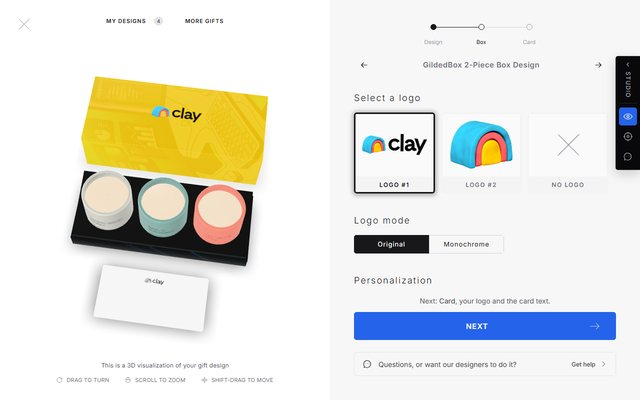
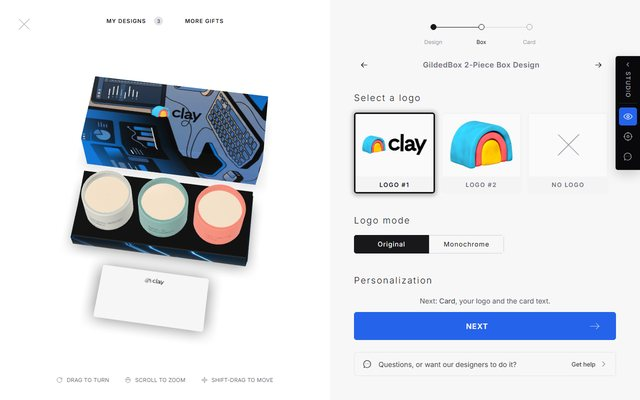
feat(lp227): iteration 8, a clean preview and a swap that asks first
Ton, 30.09 evening, both sandboxes (V1.8, V2.8):
- the line "This is a 3D visualization of your gift design" is gone everywhere; the preview foot keeps only the Share gesture row, in a plate that really floats (16 from the bottom, all four corners rounded) and does not show on touch;
- during the brand reading the preview is the bare base model, no plate and no doors;
- the colour swap no longer regenerates at once: a contextual line opens under the row of colour tiles, "Swapping the colors creates a new design. Your current design stays in My Designs.", with Continue and Cancel; Continue runs the short generation and adds exactly one design, Cancel changes nothing.
Also on the wireframe shelf: five mockups of the help under NEXT for the brainstorm (sandbox/wire/customizer-help-variants.html). Live is untouched.

Built with Elian (session 43).

diff --git a/sandbox/wire/customizer-help-variants.html b/sandbox/wire/customizer-help-variants.html
@@ -1,0 +1,250 @@
+<!DOCTYPE html>
+<html lang="en">
+<head>
+<meta charset="UTF-8">
+<meta name="viewport" content="width=device-width, initial-scale=1.0">
+<link rel="icon" href="data:,">
+<title>Mockup · Customizer help, five variants · GildedBox Design Studio</title>
+<!-- ============================================================
+     gbppl-customizer-help-variants-1 (30.09.2026). MOCKUP for a
+     brainstorm with Ton, not a page. The question is the help element
+     under NEXT on Your Design (Ton 30.09 20:21: «Get help looks
+     deliberately the smallest text on the page»).
+     Five variants, each at REAL size in two frames. Each frame is an
+     iframe of THIS file (?f=desk|phone&v=A..E) so its own viewport
+     drives the button ladder: the desktop frame is a 1280 viewport
+     clipped to the 620 panel (large = 56, medium = 42, small = 36),
+     the phone frame is a 390 viewport (large = 48, medium = 36,
+     small = 32), whatever screen the page is opened on.
+     Buttons and glyphs are the system's (button.css, icon.js). The
+     panel furniture (stepper, tiles, colour tiles) is a page-only copy
+     of the sandbox customizer (start-227-assets sb.css / cz.css).
+     ============================================================ -->
+<script>
+  var GBQ = new URLSearchParams(location.search);
+  var GBF = GBQ.get('f'), GBV = GBQ.get('v') || 'A';
+  if (GBF) document.documentElement.classList.add('is-frame', 'is-' + GBF);
+  else {
+    var s = document.createElement('script');
+    s.src = '../../system/components/studio.js';
+    s.setAttribute('data-home', '../../index.html');
+    document.head.appendChild(s);
+  }
+</script>
+<link rel="preconnect" href="https://fonts.googleapis.com">
+<link rel="preconnect" href="https://fonts.gstatic.com" crossorigin>
+<link href="https://fonts.googleapis.com/css2?family=Inter:wght@300;400;500;600&display=swap" rel="stylesheet">
+<link rel="stylesheet" href="../../system/assets/tokens.css">
+<link rel="stylesheet" href="../../system/components/icon.css">
+<link rel="stylesheet" href="../../system/components/button.css">
+<style>
+  *, *::before, *::after { box-sizing: border-box; }
+  html, body { margin: 0; }
+  body { font-family: var(--font-sans); color: var(--zinc-900); background: var(--white); -webkit-font-smoothing: antialiased; }
+  p, h1, h2, h3 { margin: 0; }
+
+  /* ---------- THE BOARD (top level) ---------- */
+  .hv { max-width: 1216px; margin: 0 auto; padding: var(--space-48) var(--space-32) var(--space-64); }
+  .hv-head h1 { font-size: 24px; line-height: 32px; font-weight: 500; }
+  .hv-rec { margin-top: var(--space-16); padding: var(--space-16); background: var(--blue-50); border-radius: var(--radius); font-size: 16px; line-height: 24px; color: var(--zinc-900); }
+  .hv-rec b { font-weight: 600; }
+  .hv-var { margin-top: var(--space-64); }
+  .hv-var h2 { font-size: 20px; line-height: 28px; font-weight: 500; }
+  .hv-frames { display: flex; flex-wrap: wrap; gap: var(--space-48); margin-top: var(--space-16); align-items: flex-start; }
+  .hv-frame { flex: 0 0 auto; max-width: 100%; }
+  .hv-cap { font-size: 14px; line-height: 20px; color: var(--zinc-600); margin-bottom: var(--space-8); }
+  .hv-clip { overflow: hidden; border: 1px solid var(--zinc-200); border-radius: var(--radius); background: #F7F7F7; }
+  .hv-clip--desk { width: 622px; max-width: 100%; overflow-x: auto; }
+  .hv-clip--desk .hv-win { width: 620px; height: 820px; overflow: hidden; position: relative; }
+  .hv-clip--desk iframe { position: absolute; left: -660px; top: 0; width: 1280px; height: 820px; border: 0; display: block; }
+  .hv-clip--phone { width: 392px; max-width: 100%; }
+  .hv-clip--phone iframe { width: 390px; height: 844px; border: 0; display: block; }
+  .hv-notes { margin-top: var(--space-16); display: grid; gap: var(--space-8); max-width: 1058px; font-size: 16px; line-height: 24px; color: var(--zinc-700); }
+  .hv-notes b { color: var(--zinc-900); font-weight: 600; }
+  @media (max-width: 767px) { .hv { padding: var(--space-32) var(--space-16) var(--space-48); } }
+
+  /* ---------- THE FRAME (inside the iframes) ---------- */
+  .is-frame body { background: #141414; overflow: hidden; }
+  .pn { background: #F7F7F7; display: flex; flex-direction: column; }         /* NO TOKEN: live panel ground, harvest 28.09 */
+  .is-desk .pn { position: absolute; top: 0; right: 0; width: 620px; height: 100vh; }
+  .is-desk .pn-scroll { padding: var(--space-48) var(--space-48) 0; }
+  .is-desk .pn-foot { padding: var(--space-16) var(--space-48) var(--space-48); margin-top: auto; }
+  .is-phone .pn { position: absolute; left: 0; right: 0; bottom: 0; height: 50vh; background: var(--zinc-50); border-radius: 30px 30px 0 0; box-shadow: 0 -3px 8px rgba(0,0,0,.07); }
+  .is-phone .pn-grab { height: 44px; display: grid; place-items: center; flex: 0 0 auto; }
+  .is-phone .pn-grab span { width: 36px; height: 4px; border-radius: 2px; background: var(--zinc-300); }
+  .is-phone .pn-scroll { padding: 0 var(--space-16); flex: 1 1 auto; min-height: 0; overflow: hidden; }
+  .is-phone .pn-foot { flex: 0 0 auto; padding: 12px var(--space-16) var(--space-8); border-top: 1px solid var(--zinc-200); background: var(--zinc-50); }
+  .is-phone .pn-scene-note { position: absolute; top: 25vh; left: 0; right: 0; transform: translateY(-50%); text-align: center; color: var(--zinc-500); font-size: 14px; }
+  .is-desk .pn-scene-note { position: absolute; top: 50%; left: 330px; transform: translate(-50%, -50%); color: var(--zinc-500); font-size: 14px; }
+
+  .pn-head { display: flex; flex-direction: column; align-items: center; gap: var(--space-16); position: relative; }
+  .is-phone .pn-head { gap: var(--space-8); }
+  .pn-stepper { display: flex; align-items: center; }
+  .pn-dot { width: 12px; height: 12px; border-radius: 50%; border: 1px solid var(--zinc-400); }
+  .pn-dot.is-on { border-color: var(--zinc-900); }
+  .pn-line { width: 84px; height: 1px; background: var(--zinc-300); }
+  .is-phone .pn-dot { width: 8px; height: 8px; }
+  .is-phone .pn-line { width: 84px; }
+  .pn-steps { position: relative; width: 192px; height: 18px; font-size: 11px; color: var(--zinc-400); margin-top: -4px; }
+  .is-desk .pn-steps { width: 204px; margin-top: -2px; }
+  .pn-steps span { position: absolute; left: 4px; transform: translateX(-50%); }
+  .pn-steps span:nth-child(2) { left: 50%; }
+  .pn-steps span:nth-child(3) { left: calc(100% - 4px); }
+  .pn-steps .is-on { color: var(--zinc-900); }
+  .pn-title { width: 100%; height: 40px; display: flex; align-items: center; justify-content: space-between; }
+  .pn-title > b { font-size: 16px; font-weight: 600; letter-spacing: .5px; color: var(--zinc-500); }
+  .is-phone .pn-title > b { font-size: 12px; }
+  .pn-arrow { width: 40px; height: 40px; display: grid; place-items: center; color: var(--zinc-900); }
+  .pn-arrow.is-off { opacity: .3; }
+  .pn-arrow.is-back .gb-icon { transform: rotate(180deg); }
+  .pn-headhelp { position: absolute; right: 0; top: -12px; }                 /* D: the ghost lands on the step line */
+  .is-phone .pn-headhelp { top: -16px; right: -4px; }
+
+  .pn-choose { margin-top: var(--space-32); font-size: 20px; line-height: 28px; font-weight: 300; letter-spacing: 2px; color: var(--zinc-900); }
+  .is-phone .pn-choose { margin-top: var(--space-24); font-size: 14px; line-height: 21px; }
+  .pn-grid { margin-top: var(--space-16); display: grid; grid-template-columns: repeat(3, 1fr); gap: var(--space-16); }
+  .is-phone .pn-grid { gap: 12px; }
+  .pn-tile { aspect-ratio: 1; border-radius: var(--radius); overflow: hidden; box-shadow: inset 0 0 0 3px var(--zinc-100); position: relative; }
+  .pn-tile img { width: 100%; height: 100%; object-fit: cover; display: block; }
+  .pn-tile.is-on { box-shadow: 0 1px 8px 3px rgba(0,0,0,.3); }
+  .pn-tile.is-on::after { content: ""; position: absolute; inset: 0; border-radius: var(--radius); box-shadow: inset 0 0 0 3px var(--zinc-900); }
+
+  .pn-colors { margin-top: var(--space-32); display: flex; flex-direction: column; gap: var(--space-16); }
+  .pn-colors h3 { font-size: 18px; line-height: 27px; font-weight: 300; letter-spacing: 2px; }
+  .is-phone .pn-colors h3 { font-size: 14px; line-height: 21px; }
+  .pn-crow { display: flex; align-items: center; gap: 12px; flex-wrap: wrap; }
+  .is-phone .pn-crow { gap: var(--space-8); }
+  .pn-sw { width: 24px; height: 24px; border-radius: 3px; border: 1px solid rgba(0,0,0,.1); display: block; }
+  .pn-ctile.gb-btn { padding-left: var(--space-8); padding-right: 12px; }
+  .pn-dna { margin-left: auto; }
+  .is-phone .pn-dna { margin-left: 0; }
+
+  .pn-next-copy { font-size: 14px; line-height: 21px; color: var(--zinc-600); text-align: center; margin-bottom: 12px; }
+  .pn-next-copy strong { font-weight: 500; color: var(--zinc-900); }
+  .is-phone .pn-next-copy { display: none; }                                 /* as live: the phone foot drops the line */
+
+  /* A. secondary under NEXT */
+  .pn--a .pn-help { margin-top: 12px; }
+  /* B. one row */
+  .v-b-row { display: flex; gap: 12px; }
+  .v-b-row .v-b-help { flex: 0 0 calc(40% - 6px); min-width: 0; }
+  .v-b-row .v-b-next { flex: 1 1 0; width: auto; }
+  /* C. the advisor */
+  .v-c { margin-top: var(--space-24); padding-top: var(--space-24); border-top: 1px solid var(--zinc-200); display: flex; align-items: center; gap: 12px; }
+  .is-phone .v-c { margin-top: 12px; padding-top: 12px; }
+  .v-c-face { flex: 0 0 40px; width: 40px; height: 40px; border-radius: var(--radius-circle); background: var(--zinc-100); border: 1px solid var(--zinc-200); display: grid; place-items: center; font-size: 14px; font-weight: 600; color: var(--zinc-900); }
+  .v-c-text { flex: 1 1 auto; min-width: 0; }
+  .v-c-who { font-size: 14px; line-height: 20px; color: var(--zinc-600); }
+  .v-c-ask { font-size: 16px; line-height: 24px; color: var(--zinc-900); }
+  /* E. the card, honest */
+  .v-e { margin-top: var(--space-16); display: flex; align-items: center; gap: 12px; padding: 12px 12px 12px var(--space-16); border: 1px solid var(--zinc-200); border-radius: var(--radius); }
+  .is-phone .v-e { margin-top: 12px; }
+  .v-e > .gb-icon { color: var(--zinc-700); flex: 0 0 auto; }
+  .v-e-text { flex: 1 1 auto; min-width: 0; font-size: 16px; line-height: 24px; color: var(--zinc-700); }
+</style>
+</head>
+<body>
+<div id="root"></div>
+<script>
+(function () {
+  'use strict';
+  var PHONE = GBF === 'phone';
+  var root = document.getElementById('root');
+
+  var VARIANTS = [
+    { k: 'A', name: 'Secondary button under NEXT',
+      for: 'One primary, one clear secondary. The live label, the live place. Reads as a button at a glance.',
+      against: 'One more full-width row on the phone (36 + 12). The medium label is small caps: if it reads small, take the large rung, as live does.',
+      russell: '"Good, that is our HELP WITH MY DESIGN. Keep it."' },
+    { k: 'B', name: 'One row, two roles',
+      for: 'The standard wizard footer. The phone saves a whole row.',
+      against: 'Help stands as tall as NEXT, so the two compete. The live label fills its half with no air on desktop and does not fit the phone: there it becomes GET HELP.',
+      russell: '"Why is help the same size as next?"' },
+    { k: 'C', name: 'The advisor',
+      for: 'The human face of the expert service. The strongest sell of "we design it for you".',
+      against: 'The heaviest foot on the phone. Brad exists only in the portal: a guest in the customizer has no advisor, and there is no photo yet.',
+      russell: '"I like a person there. Whose face, for a guest?"' },
+    { k: 'D', name: 'Help in the panel head',
+      for: 'Always there, far from NEXT. The foot stays clean. The phone foot is the smallest.',
+      against: 'Out of sight at the moment of doubt. On the phone it shrinks to a glyph with no word.',
+      russell: '"Nobody will find it up there."' },
+    { k: 'E', name: 'The current card, made honest',
+      for: 'Keeps the pitch sentence ("want our designers to do it?") and gains a real button.',
+      against: 'Still a box of text beside a button: two things to read, and the card competes with NEXT for the eye.',
+      russell: '"Still a box. Just make it a button."' }
+  ];
+
+  var ic = function (name, size, cls) { return '<span class="' + (cls || '') + '" data-gb-icon="' + name + '" data-gb-icon-size="' + size + '"></span>'; };
+  var btnIcon = function (name, size) { return '<span class="gb-btn__icon" aria-hidden="true"><span data-gb-icon="' + name + '" data-gb-icon-size="' + size + '"></span></span>'; };
+  var label = function (t) { return '<span class="gb-btn__label">' + t + '</span>'; };
+  var NEXT = '<button type="button" class="gb-btn gb-btn--large gb-btn--filled gb-btn--primary gb-btn--block">' + label('Next') + btnIcon('arrow-right', PHONE ? 16 : 20) + '</button>';
+
+  /* ---------- THE BOARD ---------- */
+  if (!GBF) {
+    var here = location.pathname.split('/').pop() || 'customizer-help-variants.html';
+    var html = '<main class="hv"><header class="hv-head"><h1>Customizer, Your Design: the help under NEXT</h1>' +
+      '<p class="hv-rec"><b>Recommendation: A.</b> It is the live pattern (HELP WITH MY DESIGN under NEXT), outline and one rung smaller so NEXT stays the one primary, it reads as a button at a glance, and the phone pays one short row.</p></header>';
+    VARIANTS.forEach(function (v) {
+      html += '<section class="hv-var" id="v-' + v.k + '"><h2>' + v.k + ' · ' + v.name + '</h2><div class="hv-frames">' +
+        '<div class="hv-frame"><p class="hv-cap">Desktop, panel 620 at 1280</p><div class="hv-clip hv-clip--desk"><div class="hv-win"><iframe title="' + v.k + ' desktop" src="' + here + '?f=desk&v=' + v.k + '"></iframe></div></div></div>' +
+        '<div class="hv-frame"><p class="hv-cap" data-foot="' + v.k + '">Phone, 390</p><div class="hv-clip hv-clip--phone"><iframe title="' + v.k + ' phone" data-phone="' + v.k + '" src="' + here + '?f=phone&v=' + v.k + '"></iframe></div></div>' +
+        '</div><div class="hv-notes"><p><b>For:</b> ' + v.for + '</p><p><b>Against:</b> ' + v.against + '</p><p><b>Russell, likely:</b> ' + v.russell + '</p></div></section>';
+    });
+    root.innerHTML = html + '</main>';
+    /* The phone budget, measured inside each phone frame. */
+    Array.prototype.forEach.call(document.querySelectorAll('iframe[data-phone]'), function (f) {
+      f.addEventListener('load', function () {
+        try {
+          var d = f.contentDocument, foot = d.querySelector('.pn-foot'), scroll = d.querySelector('.pn-scroll');
+          document.querySelector('[data-foot="' + f.dataset.phone + '"]').textContent =
+            'Phone, 390 · pinned foot ' + Math.round(foot.getBoundingClientRect().height) + ' px, content window ' + Math.round(scroll.getBoundingClientRect().height) + ' px';
+        } catch (e) {}
+      });
+    });
+    return;
+  }
+
+  /* ---------- ONE FRAME ---------- */
+  var v = GBV;
+  var helpHead = v === 'D'
+    ? (PHONE
+        ? '<button type="button" class="gb-btn gb-btn--icon gb-btn--small gb-btn--ghost gb-btn--secondary pn-headhelp" aria-label="Help">' + btnIcon('chat', 20) + '</button>'
+        : '<button type="button" class="gb-btn gb-btn--small gb-btn--ghost gb-btn--secondary pn-headhelp">' + btnIcon('chat', 18) + label('Help') + '</button>')
+    : '';
+  var tiles = [1, 2, 3].map(function (n) { return '<div class="pn-tile' + (n === 1 ? ' is-on' : '') + '"><img src="../../assets/models/start227/art-' + n + '-lid.webp" alt=""></div>'; }).join('');
+  var ctile = function (name, hex) { return '<span class="gb-btn gb-btn--outline gb-btn--secondary gb-btn--medium pn-ctile"><span class="pn-sw" style="background:' + hex + '"></span>' + label(name) + '</span>'; };
+
+  var foot = '<p class="pn-next-copy">Next: <strong>Box</strong>, place your logo and name the box.</p>';
+  if (v === 'A') {
+    foot += NEXT + '<button type="button" class="gb-btn gb-btn--medium gb-btn--outline gb-btn--secondary gb-btn--block pn-help">' + label('Help with my design') + btnIcon('chat', PHONE ? 16 : 18) + '</button>';
+  } else if (v === 'B') {
+    foot += '<div class="v-b-row"><button type="button" class="gb-btn gb-btn--large gb-btn--outline gb-btn--secondary v-b-help">' + label(PHONE ? 'Get help' : 'Help with my design') + '</button>' +
+      NEXT.replace('gb-btn--block', 'gb-btn--block v-b-next') + '</div>';
+  } else if (v === 'C') {
+    foot += NEXT + '<div class="v-c"><span class="v-c-face" aria-hidden="true">BS</span><div class="v-c-text"><p class="v-c-who">Brad Smaling, gift advisor</p><p class="v-c-ask">' + (PHONE ? 'Want us to design it?' : 'Want us to design it for you?') + '</p></div>' +
+      '<button type="button" class="gb-btn ' + (PHONE ? 'gb-btn--small' : 'gb-btn--medium') + ' gb-btn--outline gb-btn--secondary">' + label('Talk to Brad') + '</button></div>';
+  } else if (v === 'D') {
+    foot += NEXT;
+  } else {
+    foot += NEXT + '<div class="v-e">' + ic('chat', 20) + '<p class="v-e-text">' + (PHONE ? 'Want us to design it?' : 'Questions, or want our designers to do it?') + '</p>' +
+      '<button type="button" class="gb-btn gb-btn--small gb-btn--outline gb-btn--secondary">' + label('Get help') + '</button></div>';
+  }
+
+  root.innerHTML = '<p class="pn-scene-note">3D scene</p><aside class="pn pn--' + v.toLowerCase() + '">' +
+    (PHONE ? '<div class="pn-grab"><span></span></div>' : '') +
+    '<div class="pn-scroll"><header class="pn-head">' +
+      '<div class="pn-stepper"><span class="pn-dot is-on"></span><span class="pn-line"></span><span class="pn-dot"></span><span class="pn-line"></span><span class="pn-dot"></span></div>' +
+      '<div class="pn-steps"><span class="is-on">Design</span><span>Box</span><span>Card</span></div>' + helpHead +
+      '<div class="pn-title"><span class="pn-arrow is-back is-off">' + ic('arrow-right', 18) + '</span><b>Your Design</b><span class="pn-arrow">' + ic('arrow-right', 18) + '</span></div>' +
+    '</header>' +
+    '<h3 class="pn-choose">Choose Your Design</h3><div class="pn-grid">' + tiles + '</div>' +
+    '<section class="pn-colors"><h3>Colors</h3><div class="pn-crow">' + ctile('Lid', '#000000') +
+      '<span class="gb-btn gb-btn--icon gb-btn--outline gb-btn--secondary gb-btn--small" aria-label="Swap colors">' + btnIcon('swap', 18) + '</span>' +
+      ctile('Tray', '#FFD100') +
+      '<span class="gb-btn gb-btn--outline gb-btn--secondary gb-btn--medium pn-dna">' + label('Edit my brand DNA') + '</span></div></section>' +
+    '</div><footer class="pn-foot">' + foot + '</footer></aside>';
+})();
+</script>
+<script src="../../system/components/icon.js"></script>
+</body>
+</html>

diff --git a/live/start-227-assets/sb.js b/live/start-227-assets/sb.js
@@ -4,7 +4,7 @@
    Local generation is ASSUMED: original Clay tiles rotate, no paid/live requests. */
 (function(){
 'use strict';
-var root=document.getElementById('cz-root'), db, pendingGift=null, pendingSwap=null, choice='', quiet=false, drawer, helpDrawer, helpRoute='', ready;
+var root=document.getElementById('cz-root'), db, pendingGift=null, pendingSwap=null, swapConfirm=false, choice='', quiet=false, drawer, helpDrawer, helpRoute='', ready;
 var KEY='gb-start227-sandbox-designs', A='start-227-assets/img/cz-', P='../sandbox/lp227-proto/img/';
 var firstGift={id:'candle-906',name:'Elemental No.3 Candle Flight',price:'$125',scene:A+'scene-design.jpg'};
 var gifts=[
@@ -48,9 +48,12 @@ function expertsHTML(){return '<div class="cz-scroll sb-experts"><div class="sb-
 // Favorites Xh from live/catalog/assets/index-CosrF-zM.js, exact card/header anatomy.
 // Ren19:06: radio only selects; no extra card ring, no extra card lines.
 function drawerHTML(){return '<div class="sb-favorites-summary"><span>'+db.designs.length+' design'+(db.designs.length===1?'':'s')+'</span></div><div class="sb-favorites-list" role="radiogroup" aria-label="Design for checkout">'+db.designs.map(function(d){return '<article class="sb-favorite-card"><div class="sb-favorite-tags"><span>Design '+d.number+'</span><label class="gb-radio"><input class="gb-radio__input" type="radio" name="sb-current-design" data-sb-radio="'+d.id+'" aria-label="Select '+esc(d.gift.name)+' design '+d.number+'" '+(d.id===db.current?'checked':'')+'></label></div><button type="button" class="sb-favorite-image" data-sb-design="'+d.id+'"><img src="'+d.artwork+'" alt="'+esc(d.gift.name)+' design '+d.number+'"></button><button class="sb-favorite-title" type="button" data-sb-design="'+d.id+'">'+esc(d.gift.name)+'</button><span class="sb-favorite-price">'+esc(d.gift.price)+'</span></article>';}).join('')+'</div>';}
-function beginSwap(){if(pendingSwap)return;if(window.GbTip)GbTip.hide();capture();pendingSwap=JSON.parse(JSON.stringify(current()));pendingGift=null;GBFlow.go({cz:'reading',dr:''});}
+// Sandbox iteration8: the swap door first explains its effect, without mutating a design.
+function showSwapConfirmation(){if(pendingSwap||swapConfirm)return;if(window.GbTip)GbTip.hide();swapConfirm=true;var colors=root.querySelector('.sb-colors');colors.insertAdjacentHTML('beforeend','<div class="sb-swap-confirm"><p>Swapping the colors creates a new design. Your current design stays in My Designs.</p><div class="sb-swap-confirm-buttons"><button type="button" class="gb-btn gb-btn--outline gb-btn--secondary gb-btn--small" data-sb-action="swap-continue"><span class="gb-btn__label">Continue</span></button><button type="button" class="gb-btn gb-btn--ghost gb-btn--secondary gb-btn--small" data-sb-action="swap-cancel"><span class="gb-btn__label">Cancel</span></button></div></div>');var row=colors.lastElementChild;requestAnimationFrame(function(){requestAnimationFrame(function(){if(row.isConnected&&swapConfirm)row.classList.add('is-in');});});}
+function cancelSwapConfirmation(){swapConfirm=false;var row=root.querySelector('.sb-swap-confirm');if(row)row.remove();}
+function beginSwap(){if(pendingSwap||!swapConfirm)return;swapConfirm=false;if(window.GbTip)GbTip.hide();capture();pendingSwap=JSON.parse(JSON.stringify(current()));pendingGift=null;GBFlow.go({cz:'reading',dr:''});}
 function finishSwap(){if(!pendingSwap)return;var source=pendingSwap,d=JSON.parse(JSON.stringify(source));d.id='design-'+(++db.counter);d.number=db.counter;d.sourceDesignId=source.id;d.fields.lid=source.fields.tray;d.fields.tray=source.fields.lid;d.fields.lidChanged=d.fields.trayChanged=true;db.designs.push(d);db.current=d.id;pendingSwap=null;save();applyCurrent();}
-function cleanup(){pendingGift=null;pendingSwap=null;if(window.GbTip)GbTip.hide();if(window.GBSandboxScene)GBSandboxScene.unmount();closeLayers();if(window.GBEntry)GBEntry.closeSignin();}
+function cleanup(){swapConfirm=false;pendingGift=null;pendingSwap=null;if(window.GbTip)GbTip.hide();if(window.GBSandboxScene)GBSandboxScene.unmount();closeLayers();if(window.GBEntry)GBEntry.closeSignin();}
 function closeLayers(){helpRoute='';if(helpDrawer&&helpDrawer._open){quiet=true;helpDrawer.close();quiet=false;}if(drawer&&drawer._open){quiet=true;drawer.close();quiet=false;}if(window.GbCatalogOverlay)GbCatalogOverlay.close();}
 // Concierge door anatomy reused by name; configurable local three-door host, not the full hub.
 function helpHTML(){return '<div class="gbhc-doors">'+[['chat','chat','Live chat','Talk to our team.'],['meeting','calendar','Book a meeting','Choose a time that works for you.'],['experts','wand','Have our designers design it','Work with our experts on this gift.']].map(function(a){return '<button type="button" class="gbhc-door" data-sb-help="'+a[0]+'"><span class="gbhc-door__disc"><span data-gb-icon="'+a[1]+'" data-gb-icon-size="22"></span></span><span class="gbhc-door__copy"><span class="gbhc-door__title">'+a[2]+'</span><span class="gbhc-door__sub">'+a[3]+'</span></span><span class="gbhc-door__go" data-gb-icon="chevron-right" data-gb-icon-size="20"></span></button>';}).join('')+'</div>';}
@@ -67,6 +70,7 @@ function layer(state){helpLayer(state);
 }
 function enhance(root,state){
  if(!active()||state.s!=='cz'){closeLayers();return;}
+ swapConfirm=false; // A route redraw never carries an unconfirmed swap into another level.
  if(window.GbTip)GbTip.hide(); // Detached color carriers must not leave an active or pending tooltip.
  ensure();applyCurrent();root.classList.add('sb-customizer');document.body.dataset.sbPlacement='scene';
  var body=root.querySelector('.cz-panel-body'),step=state.cz,d=current();if(step!=='reading')pendingSwap=null;
@@ -93,7 +97,7 @@ function enhance(root,state){
  // v6: actual scoped model, including unbranded sandbox reading (Ton17:39).
  if(step!=='url'){
   var sceneHost=root.querySelector('.cz-scene');GBSandboxScene.mount(sceneHost,d,step==='reading');
-  sceneHost.insertAdjacentHTML('beforeend','<div class="sb-visualization-plate"><p class="sb-visualization-copy">This is a 3D visualization of your gift design</p><p class="gbds-hint"><span class="gbds-hint__bit"><span data-gb-icon="rotate" data-gb-icon-size="12"></span>Drag to turn</span><span class="gbds-hint__bit"><span data-gb-icon="mouse" data-gb-icon-size="12"></span>Scroll to zoom</span><span class="gbds-hint__bit"><span data-gb-icon="move" data-gb-icon-size="12"></span>Shift-drag to move</span></p></div>');
+  if(step!=='reading')sceneHost.insertAdjacentHTML('beforeend','<div class="sb-visualization-plate"><p class="gbds-hint"><span class="gbds-hint__bit"><span data-gb-icon="rotate" data-gb-icon-size="12"></span>Drag to turn</span><span class="gbds-hint__bit"><span data-gb-icon="mouse" data-gb-icon-size="12"></span>Scroll to zoom</span><span class="gbds-hint__bit"><span data-gb-icon="move" data-gb-icon-size="12"></span>Shift-drag to move</span></p></div>');
   if(step!=='reading')sceneHost.insertAdjacentHTML('beforeend','<div class="sb-scene-doors"><button type="button" class="gb-btn gb-btn--ghost gb-btn--secondary gb-btn--small" data-sb-action="designs"><span class="gb-btn__label">My Designs</span><span class="sb-count">'+db.designs.length+'</span></button><button type="button" class="gb-btn gb-btn--ghost gb-btn--secondary gb-btn--small" data-sb-action="more"><span class="gb-btn__label">More gifts</span></button></div>');
  }
  if(state.dr==='dna'){root.querySelector('.cz-dna-footer>p').textContent='Your current designs will stay in My Designs.';root.querySelector('[data-action="back-dna"]').remove();root.querySelector('.cz-dna-content>h2').remove();root.querySelector('.cz-dna-spacer').remove();root.querySelector('.cz-dna').insertAdjacentHTML('afterbegin','<header class="sb-dna-head"><button type="button" class="gb-btn gb-btn--icon gb-btn--ghost gb-btn--secondary gb-btn--medium" data-sb-action="back-dna" aria-label="Back to gift design"><span data-gb-icon="arrow-right" data-gb-icon-size="20" style="transform:rotate(180deg)"></span></button><h2>YOUR BRAND DNA</h2></header>');}
@@ -125,7 +129,9 @@ root.addEventListener('click',function(e){
  if(a==='more')GBFlow.go({dr:'more'});
  if(a==='help')GBFlow.go({dr:'help'});
  if(a==='back-dna')GBFlow.go({dr:''});
- if(a==='swap')beginSwap();
+ if(a==='swap')showSwapConfirmation();
+ if(a==='swap-continue')beginSwap();
+ if(a==='swap-cancel')cancelSwapConfirmation();
  if(a==='regenerate'){GBCZ.dismissModal();capture();addSet(current().gift,3,current().brandUrl);GBFlow.go({cz:'design',dr:''});}
 },true);
 document.addEventListener('change',function(e){if(active()&&e.target.dataset.sbRadio)select(e.target.dataset.sbRadio);});

diff --git a/live/start-227-assets/sb.css b/live/start-227-assets/sb.css
@@ -206,3 +206,15 @@ body[data-v='2'] .gb-tip--float,body[data-v='3'] .gb-tip--float{z-index:1003}
  .sb-customizer .cz-dna .cz-color-pair{gap:8px}
  #cz-root.sb-customizer .cz-dna .cz-color-pair .cz-hex{min-width:64px}
 }
+
+/* Sandbox V1.8/V2.8, Ren20:21/20:23: gesture-only floating tab; model-only reading scene.
+   Settled iteration7 already measured bottom16/radius5. Explicit geometry preserves that contract. */
+.sb-customizer .sb-visualization-plate{top:auto;bottom:16px;border-radius:5px 5px 5px 5px}
+.sb-customizer .cz-overlay[data-step=reading]>.cz-close{display:none!important}
+@media(hover:none),(pointer:coarse){.sb-customizer .sb-visualization-plate{display:none}}
+/* Context follows the complete Colors tiles row, including DNA; no state mutation until Continue. */
+.sb-swap-confirm{display:flex;align-items:center;flex-wrap:wrap;gap:16px;opacity:0;transition:opacity var(--mo-small) var(--mo-move)}
+.sb-swap-confirm.is-in{opacity:1}
+#cz-root .sb-swap-confirm p{flex:1;min-width:200px;color:#3f3f46;font-size:14px;font-weight:400;line-height:21px;letter-spacing:0}
+.sb-swap-confirm-buttons{display:flex;align-items:center;gap:8px;flex-shrink:0}
+@media(max-width:1023px){#cz-root .sb-swap-confirm p{flex-basis:100%}}
